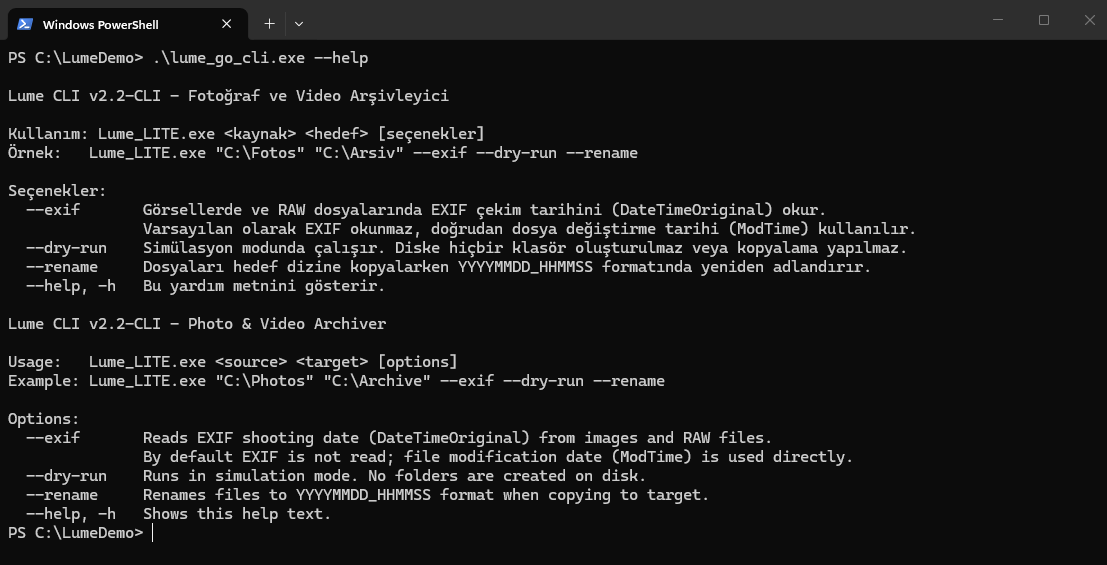
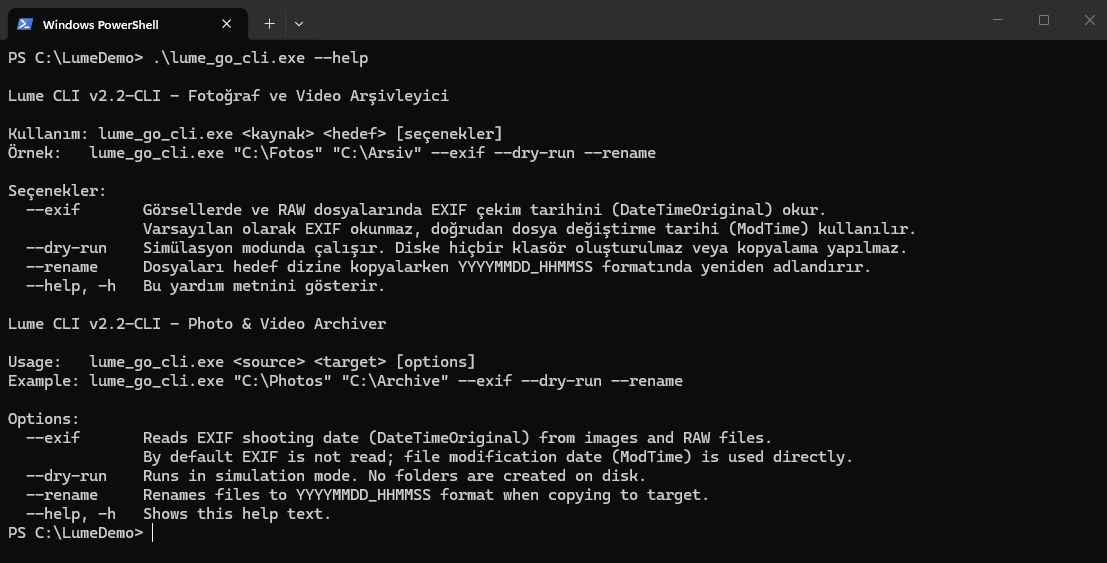
docs: ekran görüntüsü galerisini sadeleştir ve yardım görselini yenile
Galeri 18 görseli tek blokta, alt metinleri "1", "2", "3" olarak
listeliyordu; okuyucu neye baktığını ayırt edemiyordu.

- Yinelenen görsel kaldırıldı: "simulation" ile "exif dryrun" aynı komutu
  çalıştırıp birebir aynı çıktıyı gösteriyordu.
- Kalanlar Python GUI / Go GUI / Go CLI / sonuç başlıkları altında
  gruplandı; her görsel ne gösterdiğini söyleyen bir alt metin aldı.
- Az kullanılan yedi CLI varyantı katlanabilir bir bölüme alındı, böylece
  ana akış dört temsili görselle kalıyor.
- Yardım görseli, düzeltilmiş exe adıyla yeniden çekildi.

diff --git a/README.md b/README.md
@@ -19,26 +19,50 @@ Automatic folder organization with EXIF metadata, duplicate detection with MD5 (
 
 ## Screenshots
 
+**Python GUI** — koyu tema, açık tema ve Türkçe arayüz
+
 <p align="center">
-    <img src="screenshots/lume python version window main dark en.png" alt="1" width="300" style="margin-right: 10px;"/> 
-    <img src="screenshots/lume python version window main light en.png" alt="3" width="300"/>
-    <img src="screenshots/lume python version dpi sharp tr.png" alt="Python GUI DPI sharp Turkish screenshot" width="300"/>
-    <img src="screenshots/lume go version light tr.png" alt="3" width="300"/>
-    <img src="screenshots/lume go version light en.png" alt="4" width="300"/>
-    <img src="screenshots/listed folders month.png" alt="5" width="300"/>
-    <img src="screenshots/lume cli version powershell.png" alt="2" width="300"/>
-    <img src="screenshots/lume cli version powershell success.png" alt="2" width="300"/>
-    <img src="screenshots/lume cli version powershell simulation.png" alt="2" width="300"/>
-    <img src="screenshots/lume cli version powershell help.png" alt="2" width="300"/>
-    <img src="screenshots/lume cli version powershell warning.png" alt="2" width="300"/>
-    <img src="screenshots/lume cli version powershell dryrun.png" alt="2" width="300"/>
-    <img src="screenshots/lume cli version powershell exif dryrun.png" alt="2" width="300"/>
-    <img src="screenshots/lume cli version powershell rename dryrun.png" alt="2" width="300"/>
-    <img src="screenshots/lume cli version powershell full dryrun.png" alt="2" width="300"/>
-    <img src="screenshots/lume cli version powershell error same.png" alt="2" width="300"/>
-    <img src="screenshots/lume cli version powershell error nested.png" alt="2" width="300"/>
-    <img src="screenshots/lume cli version powershell error source inside target.png" alt="2" width="300"/>
+    <img src="screenshots/lume python version window main dark en.png" alt="Python GUI, koyu tema" width="300"/>
+    <img src="screenshots/lume python version window main light en.png" alt="Python GUI, açık tema" width="300"/>
+    <img src="screenshots/lume python version dpi sharp tr.png" alt="Python GUI, Türkçe arayüz" width="300"/>
 </p>
+
+**Go GUI** — Türkçe ve İngilizce
+
+<p align="center">
+    <img src="screenshots/lume go version light tr.png" alt="Go GUI, Türkçe" width="420"/>
+    <img src="screenshots/lume go version light en.png" alt="Go GUI, İngilizce" width="420"/>
+</p>
+
+**Go CLI** — arşivleme, simülasyon ve yol doğrulama
+
+<p align="center">
+    <img src="screenshots/lume cli version powershell success.png" alt="CLI, arşivleme tamamlandı" width="420"/>
+    <img src="screenshots/lume cli version powershell full dryrun.png" alt="CLI, --exif --rename ile simülasyon" width="420"/>
+    <img src="screenshots/lume cli version powershell help.png" alt="CLI, yardım metni" width="420"/>
+    <img src="screenshots/lume cli version powershell error nested.png" alt="CLI, hedef kaynağın içinde hatası" width="420"/>
+</p>
+
+**Sonuç** — tarihe göre oluşan arşiv yapısı
+
+<p align="center">
+    <img src="screenshots/listed folders month.png" alt="Arşivin yıl/ay/gün klasör yapısı" width="640"/>
+</p>
+
+<details>
+<summary>Diğer CLI ekran görüntüleri</summary>
+
+<p align="center">
+    <img src="screenshots/lume cli version powershell.png" alt="CLI, kaynak klasördeki dosyalar" width="420"/>
+    <img src="screenshots/lume cli version powershell dryrun.png" alt="CLI, --dry-run" width="420"/>
+    <img src="screenshots/lume cli version powershell exif dryrun.png" alt="CLI, --exif --dry-run" width="420"/>
+    <img src="screenshots/lume cli version powershell rename dryrun.png" alt="CLI, --rename --dry-run" width="420"/>
+    <img src="screenshots/lume cli version powershell warning.png" alt="CLI, bilinmeyen seçenek uyarısı" width="420"/>
+    <img src="screenshots/lume cli version powershell error same.png" alt="CLI, kaynak ve hedef aynı hatası" width="420"/>
+    <img src="screenshots/lume cli version powershell error source inside target.png" alt="CLI, kaynak hedefin içinde hatası" width="420"/>
+</p>
+
+</details>
 
 ---
 
